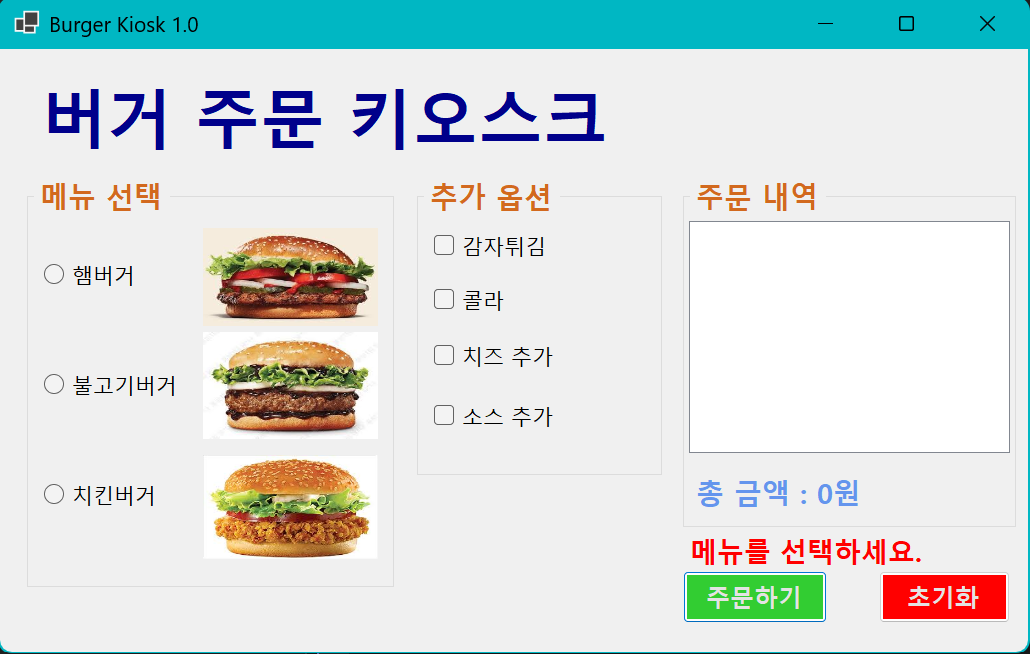
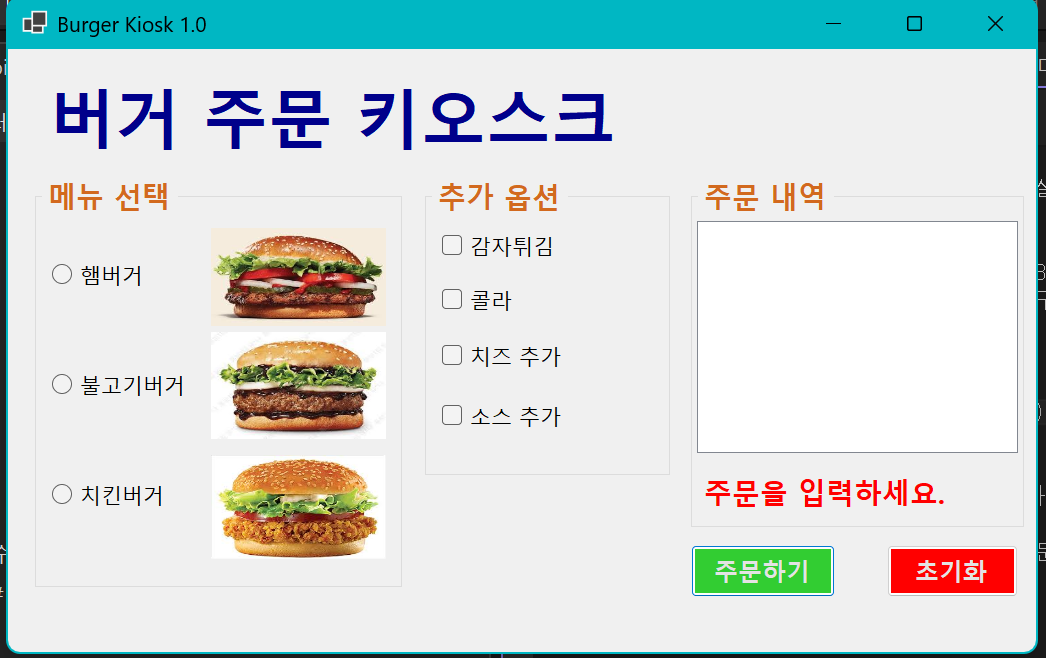
과제 2 수정 새 라벨 대신 총 금액 라벨을 에러 메시지를 출력하게 변경

diff --git a/Form1.Designer.cs b/Form1.Designer.cs
@@ -47,7 +47,6 @@
             lstOrder = new ListBox();
             btnOrder = new Button();
             btninit = new Button();
-            lblError = new Label();
             ((System.ComponentModel.ISupportInitialize)pictureBox1).BeginInit();
             ((System.ComponentModel.ISupportInitialize)pictureBox2).BeginInit();
             ((System.ComponentModel.ISupportInitialize)pictureBox3).BeginInit();
@@ -252,7 +251,7 @@
             btnOrder.BackColor = Color.LimeGreen;
             btnOrder.Font = new Font("맑은 고딕", 9.857143F, FontStyle.Bold, GraphicsUnit.Point, 129);
             btnOrder.ForeColor = SystemColors.ControlLight;
-            btnOrder.Location = new Point(683, 522);
+            btnOrder.Location = new Point(683, 496);
             btnOrder.Name = "btnOrder";
             btnOrder.Size = new Size(144, 52);
             btnOrder.TabIndex = 13;
@@ -265,7 +264,7 @@
             btninit.BackColor = Color.Red;
             btninit.Font = new Font("맑은 고딕", 9.857143F, FontStyle.Bold, GraphicsUnit.Point, 129);
             btninit.ForeColor = SystemColors.ControlLight;
-            btninit.Location = new Point(879, 522);
+            btninit.Location = new Point(879, 496);
             btninit.Name = "btninit";
             btninit.Size = new Size(131, 52);
             btninit.TabIndex = 14;
@@ -273,24 +272,11 @@
             btninit.UseVisualStyleBackColor = false;
             btninit.Click += btninit_Click;
             // 
-            // lblError
-            // 
-            lblError.AutoSize = true;
-            lblError.Font = new Font("맑은 고딕", 11.1428576F, FontStyle.Bold, GraphicsUnit.Point, 129);
-            lblError.ForeColor = Color.Red;
-            lblError.Location = new Point(683, 482);
-            lblError.Name = "lblError";
-            lblError.Size = new Size(249, 37);
-            lblError.TabIndex = 15;
-            lblError.Text = "메뉴를 선택하세요.";
-            lblError.Visible = false;
-            // 
             // Form1
             // 
             AutoScaleDimensions = new SizeF(12F, 30F);
             AutoScaleMode = AutoScaleMode.Font;
             ClientSize = new Size(1028, 603);
-            Controls.Add(lblError);
             Controls.Add(btninit);
             Controls.Add(btnOrder);
             Controls.Add(grpOrder);
@@ -332,6 +318,5 @@
         private ListBox lstOrder;
         private Button btnOrder;
         private Button btninit;
-        private Label lblError;
     }
 }

diff --git a/Form1.cs b/Form1.cs
@@ -21,6 +21,7 @@ namespace BurgerKiosk
             chkSauce.Checked = false;
 
             lstOrder.Items.Clear();
+            lblTotalCost.ForeColor = Color.CornflowerBlue;
             lblTotalCost.Text = "총 금액 : 0원";
             totalCost = 0;
         }
@@ -29,11 +30,12 @@ namespace BurgerKiosk
         {
             if (!rdoHamBurger.Checked && !rdoBulgogiBurger.Checked && !rdoChickenBurger.Checked)
             {
-                lblError.Visible = true;
+                lblTotalCost.ForeColor = Color.Red;
+                lblTotalCost.Text = "주문을 입력하세요.";
                 return;
             }
-
-            lblError.Visible = false;
+;
+            lblTotalCost.ForeColor = Color.CornflowerBlue;
 
             if (rdoHamBurger.Checked)
             {

diff --git a/README.md b/README.md
@@ -36,5 +36,4 @@
 - 과제내용
 	- 아무것도 선택하지 않고 주문하기 버튼 누를 시 에러 메시지 출력
 - 구현내용과기능설명
-	- Lable 컨트롤 추가 (에러 메시지 출력용)
-	- Visible 속성으로 아무것도 선택하지 않은 체로 주문하기 버튼 누를 시 보이게 함.
+	- 주문하기 버튼을 눌렀을 때 주문이 없을 경우 총 금액 표시를 에러 메시지로 대체.
